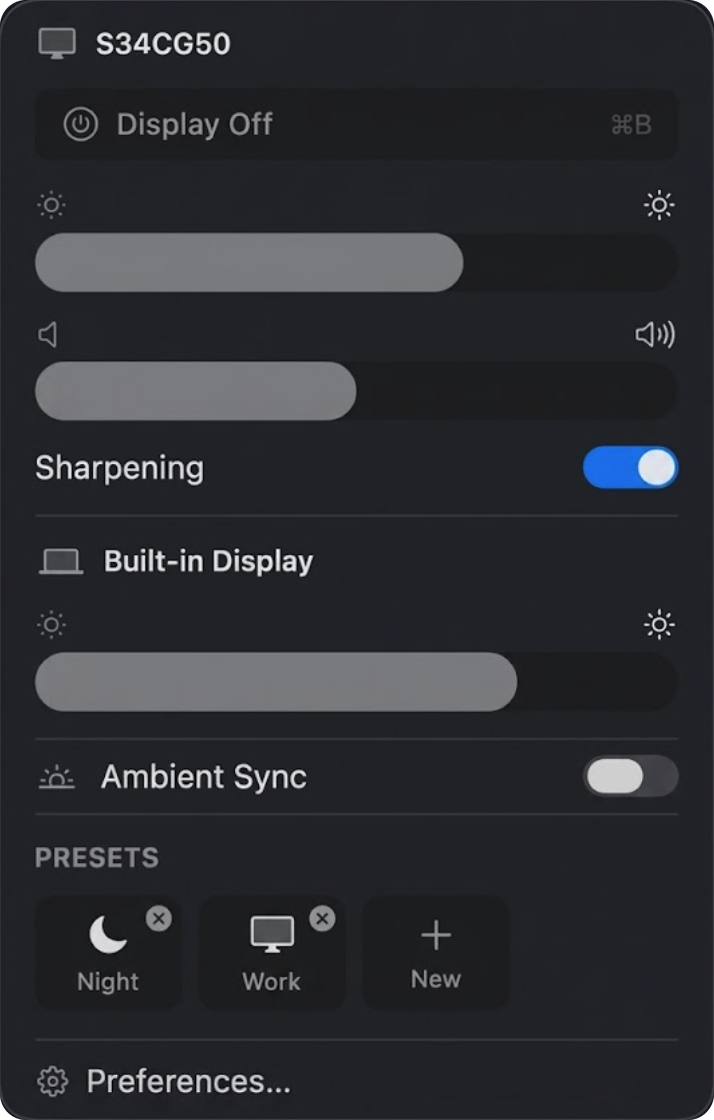
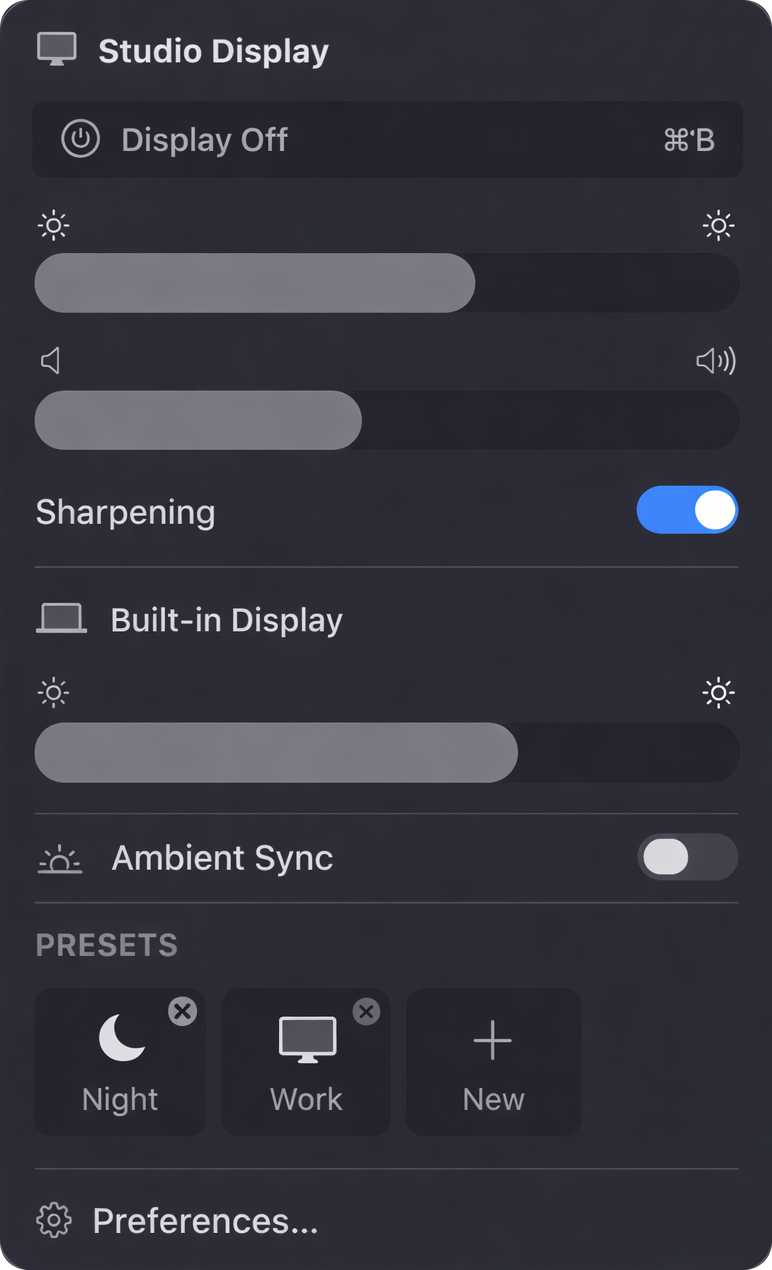
chore: replace screenshot with polished mockup

diff --git a/components/Hero.tsx b/components/Hero.tsx
@@ -94,8 +94,8 @@ export function Hero() {
         <Image
           src="/screenshot.png"
           alt="Cidra menu bar panel"
-          width={714}
-          height={1120}
+          width={772}
+          height={1270}
           priority
           className="relative w-full h-auto"
         />
